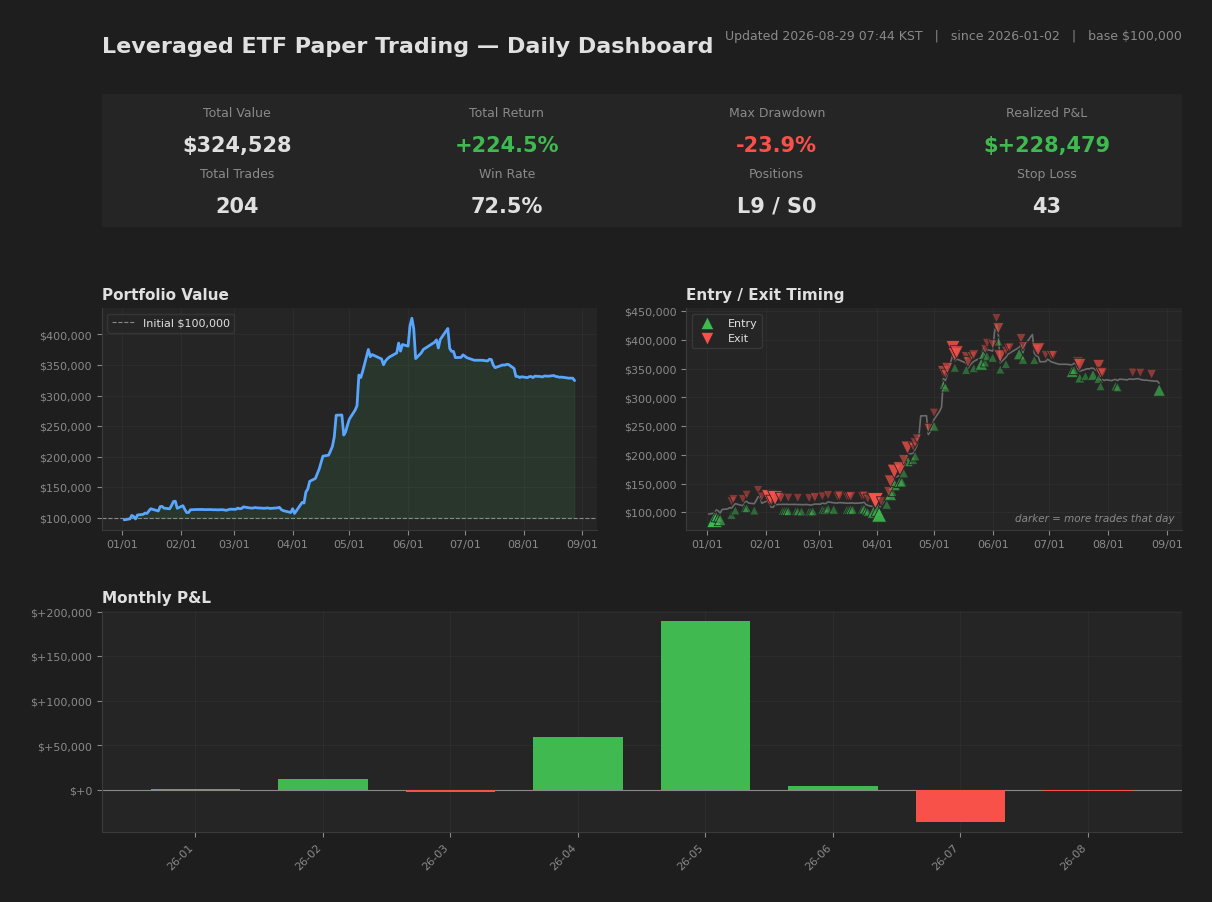
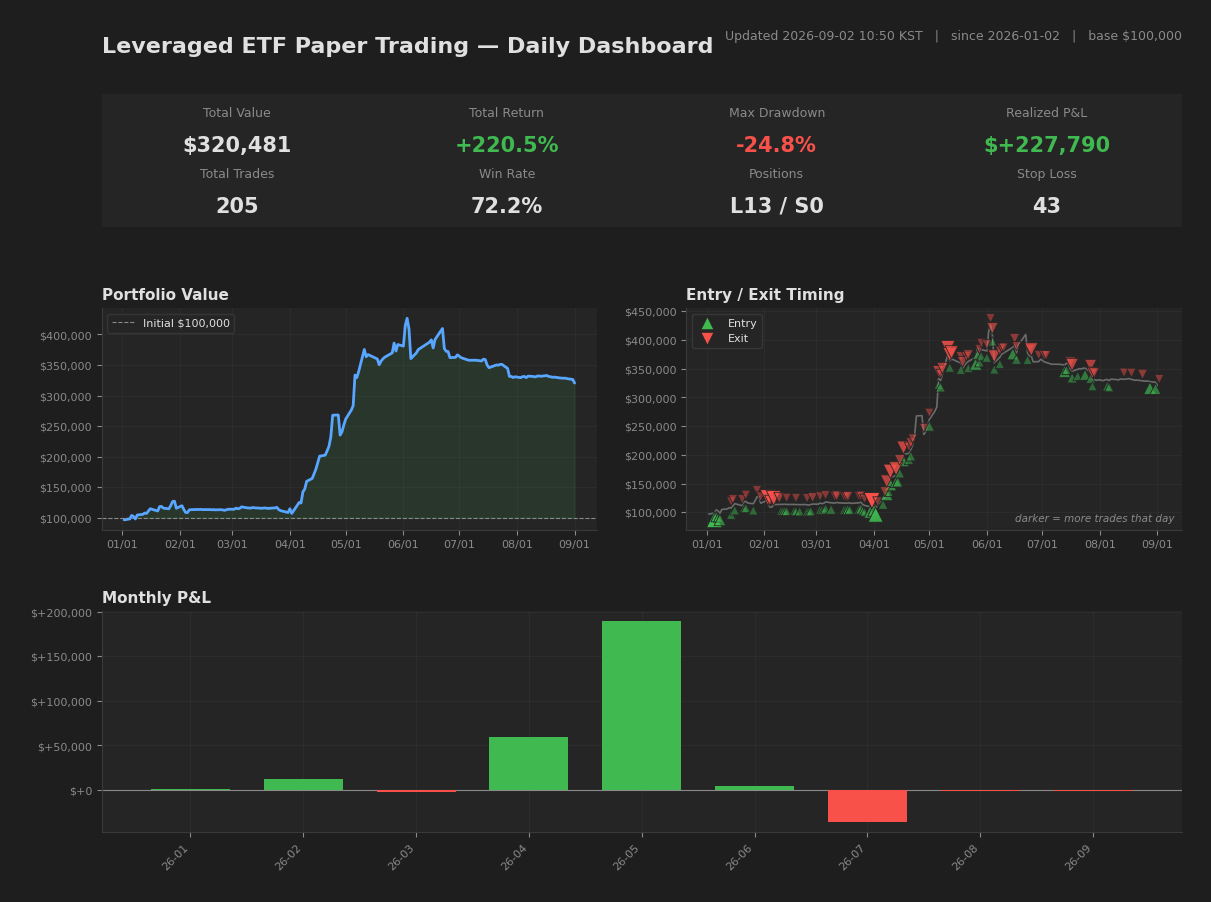
[2026-09-01] Close
Portfolio: $320,481 (+220.5%)
Positions: 13 (L13 S0)
Cumulative: 148/205 wins, P&L: $+227,790

diff --git a/README.md b/README.md
@@ -19,8 +19,8 @@ Focus on risk management, not headline returns. The strategy targets leveraged E
 Drawdown control vs. benchmark. While the benchmark experienced a maximum drawdown of roughly 40–50% over the same period, this strategy's own drawdown is reported below, measured from the paper-trading equity curve and refreshed automatically after each market close.
 
 <!-- METRICS:BEGIN (auto-generated by snapshot_backup.py after each market close; do not edit by hand) -->
-- Maximum drawdown: **-22.32%** (peak 2026-06-03 -> trough 2026-07-28, still in drawdown at this date)
-- As of **2026-07-28** market close. Updated automatically after each close.
+- Maximum drawdown: **-24.84%** (peak 2026-06-03 -> trough 2026-09-01, still in drawdown at this date)
+- As of **2026-09-01** market close. Updated automatically after each close.
 <!-- METRICS:END -->
 
 Execution costs. Because the strategy holds positions over multi-day periods with low turnover, the impact of slippage and commissions is designed to be limited rather than a primary driver of results.
